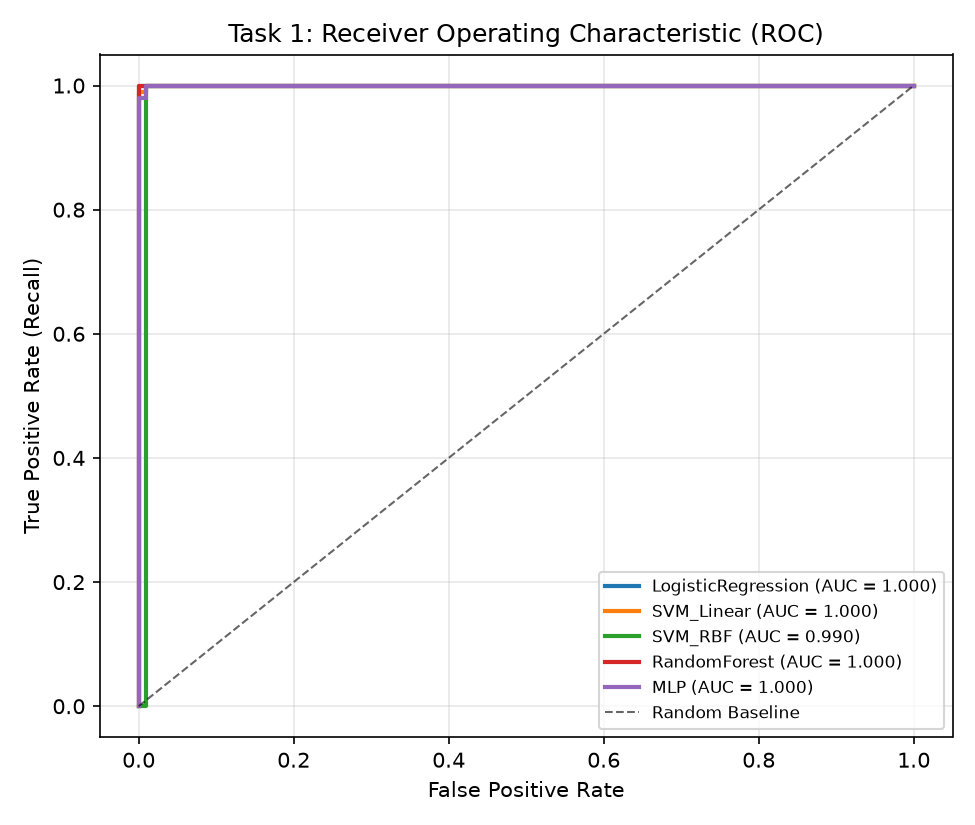
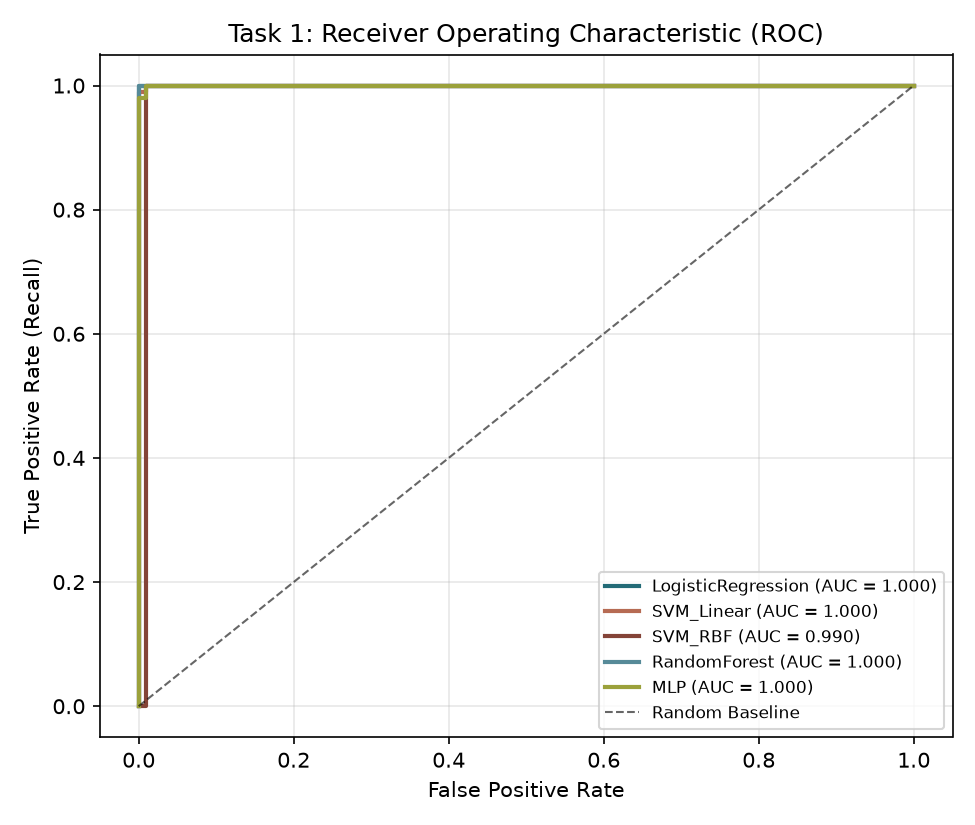
Update plot colormaps and add color palettes reference

Changed region(s): [[0.1231, 0.0909, 0.9231, 0.8788], [0.6154, 0.697, 0.6462, 0.8485]]

diff --git a/Project_A/src/synthesis.py b/Project_A/src/synthesis.py
@@ -97,6 +97,7 @@ def render_diagnostic_figures(
     out = Path(output_dir)
     out.mkdir(parents=True, exist_ok=True)
     saved_paths: list[Path] = []
+    palette_1 = ["#236B77", "#B66B53", "#844438", "#568A98", "#9BA13B", "#319E79"]
 
     # 1. MLP Loss Curves (Raw + Smoothed)
     if histories:
@@ -104,11 +105,11 @@ def render_diagnostic_figures(
         for idx, (label, hist) in enumerate(histories.items()):
             ax = axes[0, idx]
             epochs = np.arange(1, len(hist.train_loss) + 1)
-            ax.plot(epochs, hist.train_loss, alpha=0.25, color="tab:blue", label="Train (raw)")
-            ax.plot(epochs, hist.val_loss, alpha=0.25, color="tab:orange", label="Val (raw)")
-            ax.plot(epochs, hist.smoothed_train_loss, color="tab:blue", lw=2, label="Train (MA)")
-            ax.plot(epochs, hist.smoothed_val_loss, color="tab:orange", lw=2, label="Val (MA)")
-            ax.axvline(hist.stopped_epoch, color="tab:red", ls="--", lw=1.2, label=f"Stop @ {hist.stopped_epoch}")
+            ax.plot(epochs, hist.train_loss, alpha=0.25, color=palette_1[0], label="Train (raw)")
+            ax.plot(epochs, hist.val_loss, alpha=0.25, color=palette_1[1], label="Val (raw)")
+            ax.plot(epochs, hist.smoothed_train_loss, color=palette_1[0], lw=2, label="Train (MA)")
+            ax.plot(epochs, hist.smoothed_val_loss, color=palette_1[1], lw=2, label="Val (MA)")
+            ax.axvline(hist.stopped_epoch, color=palette_1[2], ls="--", lw=1.2, label=f"Stop @ {hist.stopped_epoch}")
             ax.set_title(f"{label} — BCE Loss")
             ax.set_xlabel("Epoch")
             ax.set_ylabel("Binary Cross-Entropy")
@@ -123,8 +124,14 @@ def render_diagnostic_figures(
     # 2. Classification ROC Curves
     if cls_metrics:
         fig, ax = plt.subplots(figsize=(6.5, 5.5))
-        for m in cls_metrics:
-            ax.plot(m.fpr, m.tpr, lw=2, label=f"{m.model_name} (AUC = {m.roc_auc:.3f})")
+        for idx, m in enumerate(cls_metrics):
+            ax.plot(
+                m.fpr,
+                m.tpr,
+                lw=2,
+                color=palette_1[idx % len(palette_1)],
+                label=f"{m.model_name} (AUC = {m.roc_auc:.3f})",
+            )
         ax.plot([0, 1], [0, 1], "k--", lw=1, alpha=0.6, label="Random Baseline")
         ax.set_title("Task 1: Receiver Operating Characteristic (ROC)")
         ax.set_xlabel("False Positive Rate")
@@ -146,7 +153,8 @@ def render_diagnostic_figures(
             for r in range(2):
                 for c in range(2):
                     val = int(m.confusion_matrix[r, c])
-                    ax.text(c, r, str(val), ha="center", va="center", color="black", fontsize=11, fontweight="bold")
+                    txt_color = "white" if val > 90 else "black"
+                    ax.text(c, r, str(val), ha="center", va="center", color=txt_color, fontsize=11, fontweight="bold")
             ax.set_xticks([0, 1])
             ax.set_yticks([0, 1])
             ax.set_xticklabels(["Pred 0", "Pred 1"])
@@ -164,9 +172,10 @@ def render_diagnostic_figures(
         names = [r.model_name for r in reg_metrics]
         rmses = [r.rmse for r in reg_metrics]
         r2s = [r.r2 for r in reg_metrics]
-        colors = ["tab:blue", "tab:green", "tab:purple"]
+        reg_palette = ["#B66B53", "#568A98", "#9BA13B"]
+        colors = [reg_palette[idx % len(reg_palette)] for idx in range(len(names))]
         fig, (ax1, ax2, ax3) = plt.subplots(1, 3, figsize=(14.5, 4.3))
-        ax1.bar(names, rmses, color=colors[: len(names)])
+        ax1.bar(names, rmses, color=colors)
         ax1.set_title("Task 3: Test RMSE (meters)")
         ax1.set_ylabel("RMSE [m]")
         ax1.tick_params(axis="x", rotation=15)

diff --git a/log-2026.11.13.md b/log-2026.11.13.md
@@ -52,3 +52,76 @@
   - Committed session log update and pushed branch `main` to `origin` (`git@github.com:insighteyee/CIE26.git`).
 - **File Changes:**
   - Updated `log-2026.11.13.md`: Appended Activity 6 summary.
+
+## Activity 7: Update Plot Colormaps & Regenerate Figures
+- **User Request:**
+  - Change `Project_A/outputs/classification_confusion_matrices.png` colormap to `viridis`.
+  - Change `Project_A/outputs/classification_roc_curves.png`, `Project_A/outputs/mlp_loss_curves.png`, and `Project_A/outputs/regression_benchmark.png` to Color Palette #1 from `color_palettes_overview.png` (`#236B77`, `#B66B53`, `#844438`, `#568A98`, `#9BA13B`, `#319E79`).
+- **Actions Taken:**
+  - Updated `render_diagnostic_figures` in `Project_A/src/synthesis.py` to use `cmap="viridis"` (with adaptive white/black text contrast) for confusion matrices and Color Palette #1 for MLP loss curves, ROC curves, and regression benchmark plots.
+  - Activated conda environment `cie26` and ran `python Project_A/main.py` (exit code 0) to regenerate all diagnostic figures.
+  - Visually verified all 4 regenerated PNGs.
+- **File Changes:**
+  - Modified `Project_A/src/synthesis.py`: Updated colormaps/colors in `render_diagnostic_figures`.
+  - Regenerated `Project_A/outputs/classification_confusion_matrices.png`, `Project_A/outputs/classification_roc_curves.png`, `Project_A/outputs/mlp_loss_curves.png`, and `Project_A/outputs/regression_benchmark.png` (plus `Project_A/outputs/synthesis_report.md`).
+  - Updated `log-2026.11.13.md`: Appended Activity 7 summary.
+
+## Activity 8: Create Color Palettes Markdown Reference
+- **User Request:** Create a markdown file storing color palettes from `color_palettes_overview.png` in text.
+- **Actions Taken:**
+  - Extracted all 7 color palettes (hex codes) from `color_palettes_overview.png` into `color_palettes.md`.
+- **File Changes:**
+  - Created `color_palettes.md`: Markdown table and Python dictionary of Color Palettes #1–#7.
+  - Updated `log-2026.11.13.md`: Appended Activity 8 summary.
+
+## Activity 9: Update `regression_benchmark.png` Colors
+- **User Request:** Use `#006C65`, `#FFAB46`, `#225074` for `Project_A/outputs/regression_benchmark.png`.
+- **Actions Taken:**
+  - Updated `reg_palette` in `Project_A/src/synthesis.py` to `["#006C65", "#FFAB46", "#225074"]`.
+  - Activated conda environment `cie26` and ran `python Project_A/main.py` (exit code 0).
+  - Visually verified `Project_A/outputs/regression_benchmark.png`.
+- **File Changes:**
+  - Modified `Project_A/src/synthesis.py`: Set `reg_palette = ["#006C65", "#FFAB46", "#225074"]`.
+  - Regenerated `Project_A/outputs/regression_benchmark.png` (and other `Project_A/outputs/` artifacts).
+  - Updated `log-2026.11.13.md`: Appended Activity 9 summary.
+
+## Activity 10: Revert `classification_confusion_matrices.png` Colors
+- **User Request:** Revert color changes on `Project_A/outputs/classification_confusion_matrices.png`.
+- **Actions Taken:**
+  - Reverted `imshow` colormap in `Project_A/src/synthesis.py` back to `"Blues"` with `color="black"` cell labels.
+  - Activated conda environment `cie26` and ran `python Project_A/main.py` (exit code 0).
+  - Visually verified `Project_A/outputs/classification_confusion_matrices.png`.
+- **File Changes:**
+  - Modified `Project_A/src/synthesis.py`: Reverted confusion matrix colormap to `"Blues"` and text color to `"black"`.
+  - Regenerated `Project_A/outputs/classification_confusion_matrices.png`.
+  - Updated `log-2026.11.13.md`: Appended Activity 10 summary.
+
+## Activity 11: White Text for Confusion Matrix Values > 90
+- **User Request:** Change text color for values > 90 in `Project_A/outputs/classification_confusion_matrices.png` to white instead of black.
+- **Actions Taken:**
+  - Updated cell text color in `Project_A/src/synthesis.py` to `"white" if val > 90 else "black"`.
+  - Activated conda environment `cie26` and ran `python Project_A/main.py` (exit code 0).
+  - Visually verified `Project_A/outputs/classification_confusion_matrices.png`.
+- **File Changes:**
+  - Modified `Project_A/src/synthesis.py`: Set `txt_color = "white" if val > 90 else "black"`.
+  - Regenerated `Project_A/outputs/classification_confusion_matrices.png`.
+  - Updated `log-2026.11.13.md`: Appended Activity 11 summary.
+
+## Activity 12: Update `regression_benchmark.png` Colors to `#B66B53`, `#568A98`, `#9BA13B`
+- **User Request:** Use `#B66B53`, `#568A98`, `#9BA13B` for `Project_A/outputs/regression_benchmark.png`.
+- **Actions Taken:**
+  - Updated `reg_palette` in `Project_A/src/synthesis.py` to `["#B66B53", "#568A98", "#9BA13B"]`.
+  - Activated conda environment `cie26` and ran `python Project_A/main.py` (exit code 0).
+  - Visually verified `Project_A/outputs/regression_benchmark.png`.
+- **File Changes:**
+  - Modified `Project_A/src/synthesis.py`: Set `reg_palette = ["#B66B53", "#568A98", "#9BA13B"]`.
+  - Regenerated `Project_A/outputs/regression_benchmark.png`.
+  - Updated `log-2026.11.13.md`: Appended Activity 12 summary.
+
+## Activity 13: Commit & Push Updated Plots and Color Palettes
+- **User Request:** Git commit and push changes.
+- **Actions Taken:**
+  - Activated conda environment `cie26`.
+  - Staged all modified and new files (`color_palettes.md`, `color_palettes_overview.png`, `Project_A/src/synthesis.py`, `Project_A/outputs/*`, `log-2026.11.13.md`), committed, and pushed `main` to `origin`.
+- **File Changes:**
+  - Updated `log-2026.11.13.md`: Appended Activity 13 summary.

diff --git a/color_palettes.md b/color_palettes.md
@@ -1,0 +1,13 @@
+## Python Lists
+
+```python
+COLOR_PALETTES = {
+    1: ["#236B77", "#B66B53", "#844438", "#568A98", "#9BA13B", "#319E79"],
+    2: ["#75C08A", "#FF7651", "#A34B13", "#006C65", "#FFAB46", "#225074"],
+    3: ["#FF7550", "#B9A12E", "#66AC98", "#006C67", "#B21C01", "#5388A4"],
+    4: ["#6E2248", "#00A389", "#B84A4E", "#006497", "#E6A400", "#F77543"],
+    5: ["#EF8866", "#327471", "#83BDDC", "#3375B0", "#96695A", "#DB7189"],
+    6: ["#2057A7", "#1E87A5", "#C43D4D", "#F2BC40", "#8980CB", "#287C6F", "#E07653"],
+    7: ["#A01860", "#5FA0A0", "#EB691E", "#69411E", "#23211E"],
+}
+```
